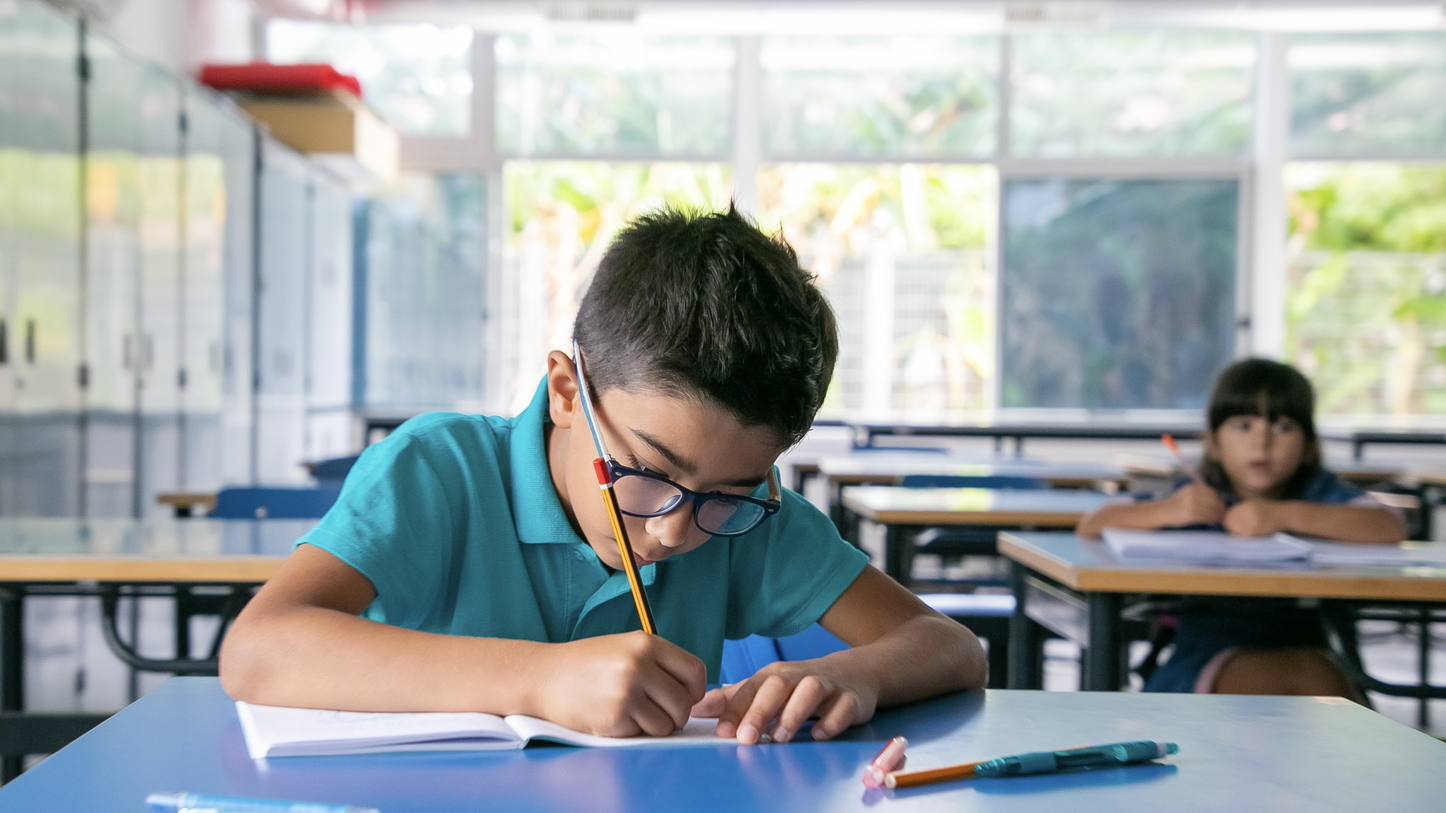
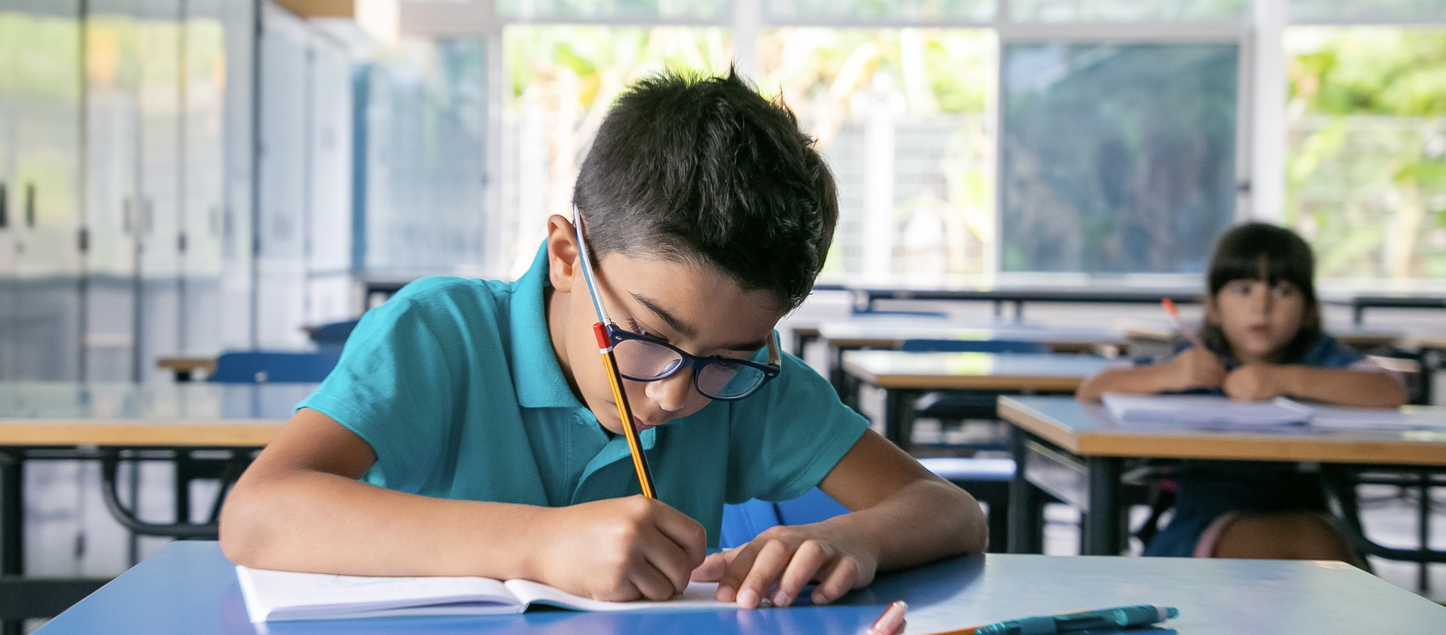
update

diff --git a/resources/views/pages/portfolio-show-funding-balancesheet.blade.php b/resources/views/pages/portfolio-show-funding-balancesheet.blade.php
@@ -13,13 +13,13 @@
     </div>
 
     <div class="hero-section">
-        <div class="hero-content" style="background-image: url('{{ asset('images/portfolio/MPFHeadline.jpeg') }}');">
+        <div class="hero-content" style="background-image: url('{{ asset('images/portfolio/BalacesheetHeadline.jpeg') }}');">
         </div>
     </div>
 
 
     <div class="hero-mid-section">
-        <h1 class="center-text">Indonesia is one of the digital economic powerhouses in Southeast Asia.</h1>
+        <h1 class="center-text">Mandiri Group is the largest banking institution by asset value in Indonesia.</h1>
     </div>
 
     <!-- Content Section -->
